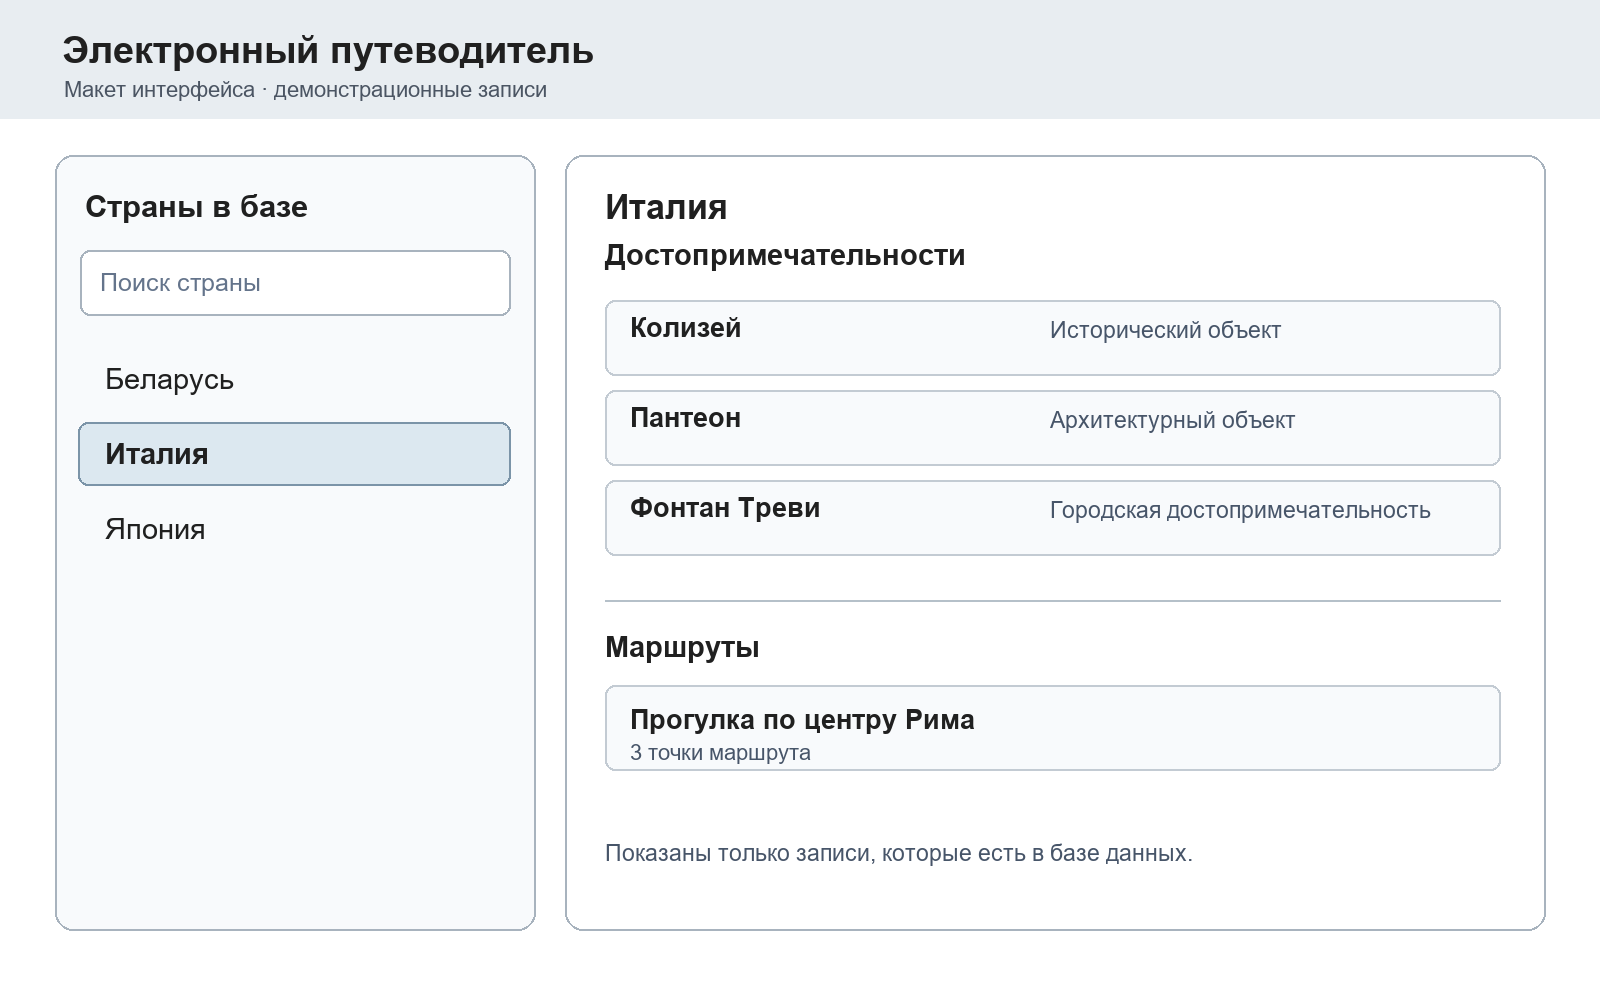
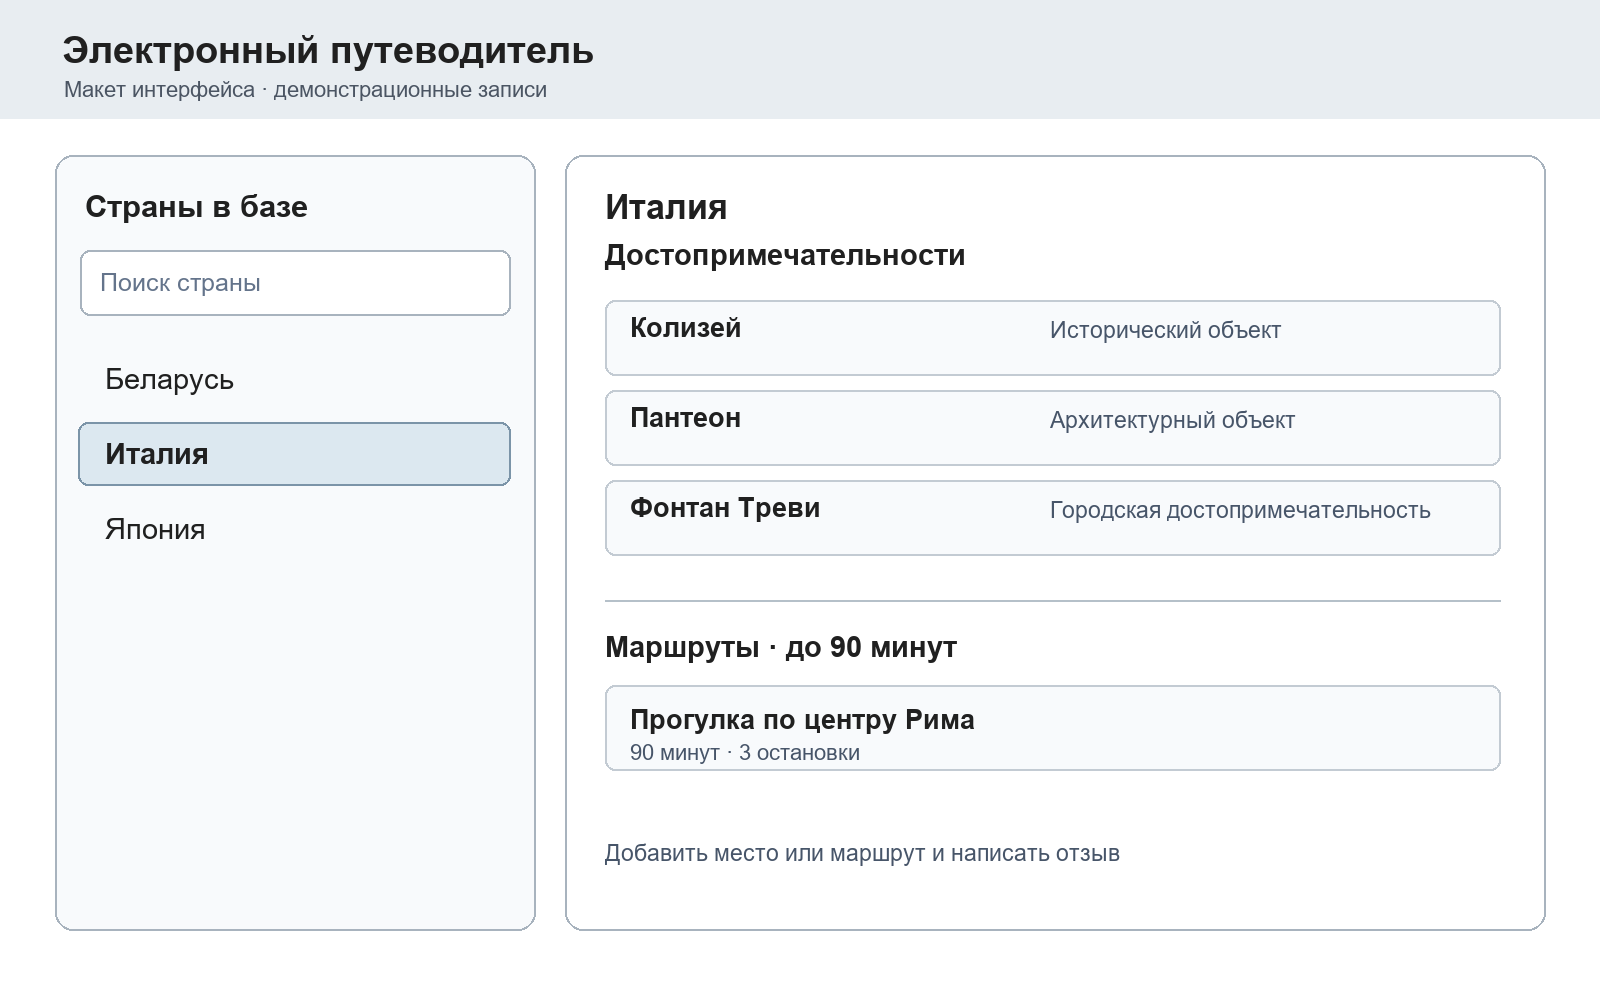
Align guide scenarios, diagrams and mockups with lab 3

Changed region(s): [[0.375, 0.837, 0.75, 0.868], [0.5, 0.62, 0.5938, 0.682], [0.4062, 0.744, 0.5312, 0.775]]

diff --git a/srs/electronic-guide-srs.md b/srs/electronic-guide-srs.md
@@ -29,7 +29,7 @@
 
 ## Статус исходных данных
 
-Подтверждено владельцем проекта: язык разработки C++; охват — страны всего мира, **но только внесённые в базу данных**; показ достопримечательностей и маршрутов по ним. Сведения о назначенном преподавателем напарнике, результатах интервью и замечаниях преподавателя пока не получены. Поэтому решения, не следующие прямо из перечисленных пожеланий, помечены как предложения или открытые вопросы. Эта версия не означает согласования требований с заказчиком.
+Основание спецификации – итоговый отчёт по лабораторной работе № 3. Раздел 4 содержит план приёмки. Согласование с заказчиком и результаты испытаний фиксируются отдельно.
 
 ## 1. Введение
 
@@ -39,7 +39,7 @@
 
 ### 1.2 Область применения продукта
 
-Программа помогает человеку выбрать страну и ознакомиться с внесёнными в базу достопримечательностями и маршрутами по ним. Географический охват не ограничен одной страной: база может содержать записи о любых странах мира. Программа не должна создавать впечатление, что в ней представлены все страны и все достопримечательности мира: отображаются только имеющиеся записи.
+Каталог может охватывать страны всего мира по мере наполнения базы. Посетители добавляют места и прогулки, публикуют отзывы и передают ссылки другим туристам. Для планирования прогулки читатель выбирает страну и доступное время.
 
 ### 1.3 Определения, акронимы и сокращения
 
@@ -48,6 +48,8 @@
 | Страна | Запись каталога, содержащая название страны и связанные с ней достопримечательности и маршруты. |
 | Достопримечательность | Объект интереса, относящийся к одной стране в базе данных. |
 | Маршрут | Упорядоченный набор достопримечательностей, предлагаемый для посещения. Это определение подлежит подтверждению заказчиком. |
+| Обзор | Опубликованный отзыв посетителя, связанный с конкретным местом или маршрутом и доступный по ссылке. |
+| Длительность | Оценка автора в минутах, используемая при выборе прогулки. |
 | База данных | Постоянное хранилище записей о странах, достопримечательностях и маршрутах; конкретная СУБД ещё не выбрана. |
 | SRS | Спецификация требований к программному обеспечению. |
 | SysML v2 | Язык моделирования систем, использованный для графической части работы. |
@@ -71,7 +73,9 @@
 
 ### 2.2 Функции продукта
 
-Предлагаемый пользовательский сценарий: открыть каталог стран, выбрать страну, посмотреть её достопримечательности, открыть интересующий объект и выбрать маршрут с перечнем точек. Структура сценария отражена в [модели SysML v2](models/electronic-guide.sysml) и [диаграмме вариантов использования](graphics/electronic-guide-use-cases.png). Предварительные [макет каталога](graphics/catalog-mockup.png) и [макет маршрута](graphics/route-mockup.png) показывают расположение основных элементов; это не снимки работающей программы.
+Автор добавляет место или маршрут. Для прогулки он указывает порядок остановок и примерную длительность в минутах. После публикации автор может отправить ссылку через внешний канал. Получатель открывает отзыв вместе с описанной записью.
+
+Читатель выбирает страну и при необходимости ограничивает время прогулки. Предел включительный: маршрут на 90 минут подходит при лимите 90 минут. При открытии маршрута видны страна, название, длительность и остановки. При сбое чтения базы программа сообщает об ошибке.
 
 ### 2.3 Ограничения продукта
 
@@ -79,7 +83,7 @@
 
 ### 2.4 Характеристики пользователей
 
-Основной пользователь – турист, впервые приехавший в город. По материалам издателя он должен понять, где начать прогулку и какую остановку посетить следующей.
+Один посетитель может выступать в двух ролях. Как автор он пополняет каталог и делится опытом. Как читатель он знакомится с отзывами других путешественников и выбирает прогулку по стране и времени.
 
 ### 2.5 Приоритетные задачи первого выпуска
 
@@ -140,5 +144,7 @@
 - [Диаграмма вариантов использования](graphics/electronic-guide-use-cases.png).
 - [Макет каталога стран и достопримечательностей](graphics/catalog-mockup.png).
 - [Макет просмотра маршрута](graphics/route-mockup.png).
+
+- [Макет публикации обзора и обмена ссылкой](graphics/review-mockup.png).
 
 Графические материалы подготовлены для обсуждения требований. Они не являются снимками работающего приложения.

diff --git a/README.md b/README.md
@@ -7,7 +7,8 @@
 ## Документы проекта
 
 - [Предварительная спецификация требований](srs/electronic-guide-srs.md) — результат лабораторной работы № 3.
-- [Модель SysML v2](srs/models/electronic-guide.sysml) и [графические материалы](srs/graphics/) — представление границ системы и макетов интерфейса.
+- [Модель SysML v2](srs/models/electronic-guide.sysml) и [диаграмма сценариев](srs/graphics/electronic-guide-use-cases.png) — представление границ системы и макетов интерфейса.
+- Макеты первого выпуска: [выбор по времени](srs/graphics/catalog-mockup.png), [карточка прогулки](srs/graphics/route-mockup.png), [публикация отзыва и обмен ссылкой](srs/graphics/review-mockup.png).
 - [Отчёт в PDF](lab3/Юденко_Л3.pdf) и [редактируемый файл Word](lab3/Юденко_Л3.docx).
 - `adr/`, `sdd/`, `docs/` — проектная документация и шаблоны исходного учебного репозитория.
 - `lab2/` — отчёт по лабораторной работе № 2.

diff --git a/srs/README.md b/srs/README.md
@@ -1,3 +1,7 @@
+# Требования к электронному путеводителю
+
+[Спецификация и критерии приёмки](electronic-guide-srs.md) · [Модель SysML v2](models/electronic-guide.sysml) · [Диаграмма и макеты](graphics/)
+
 
 # SRS Templates / Шаблоны SRS
 
